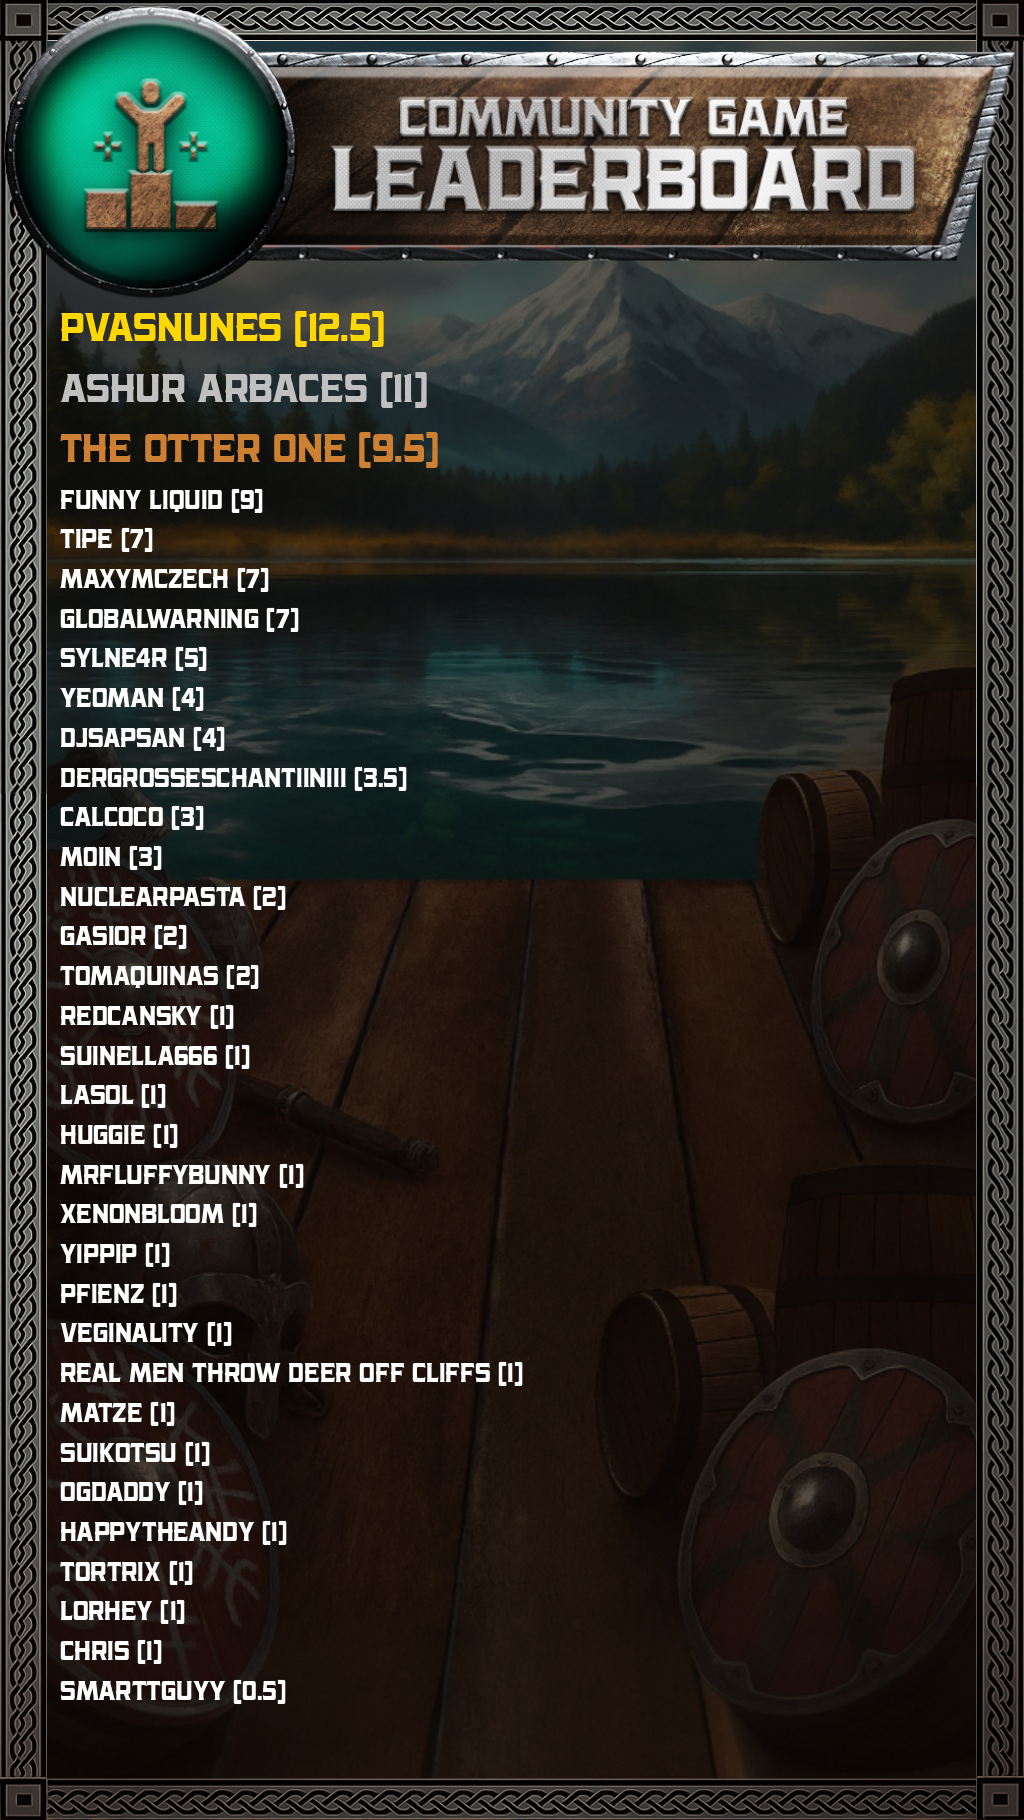
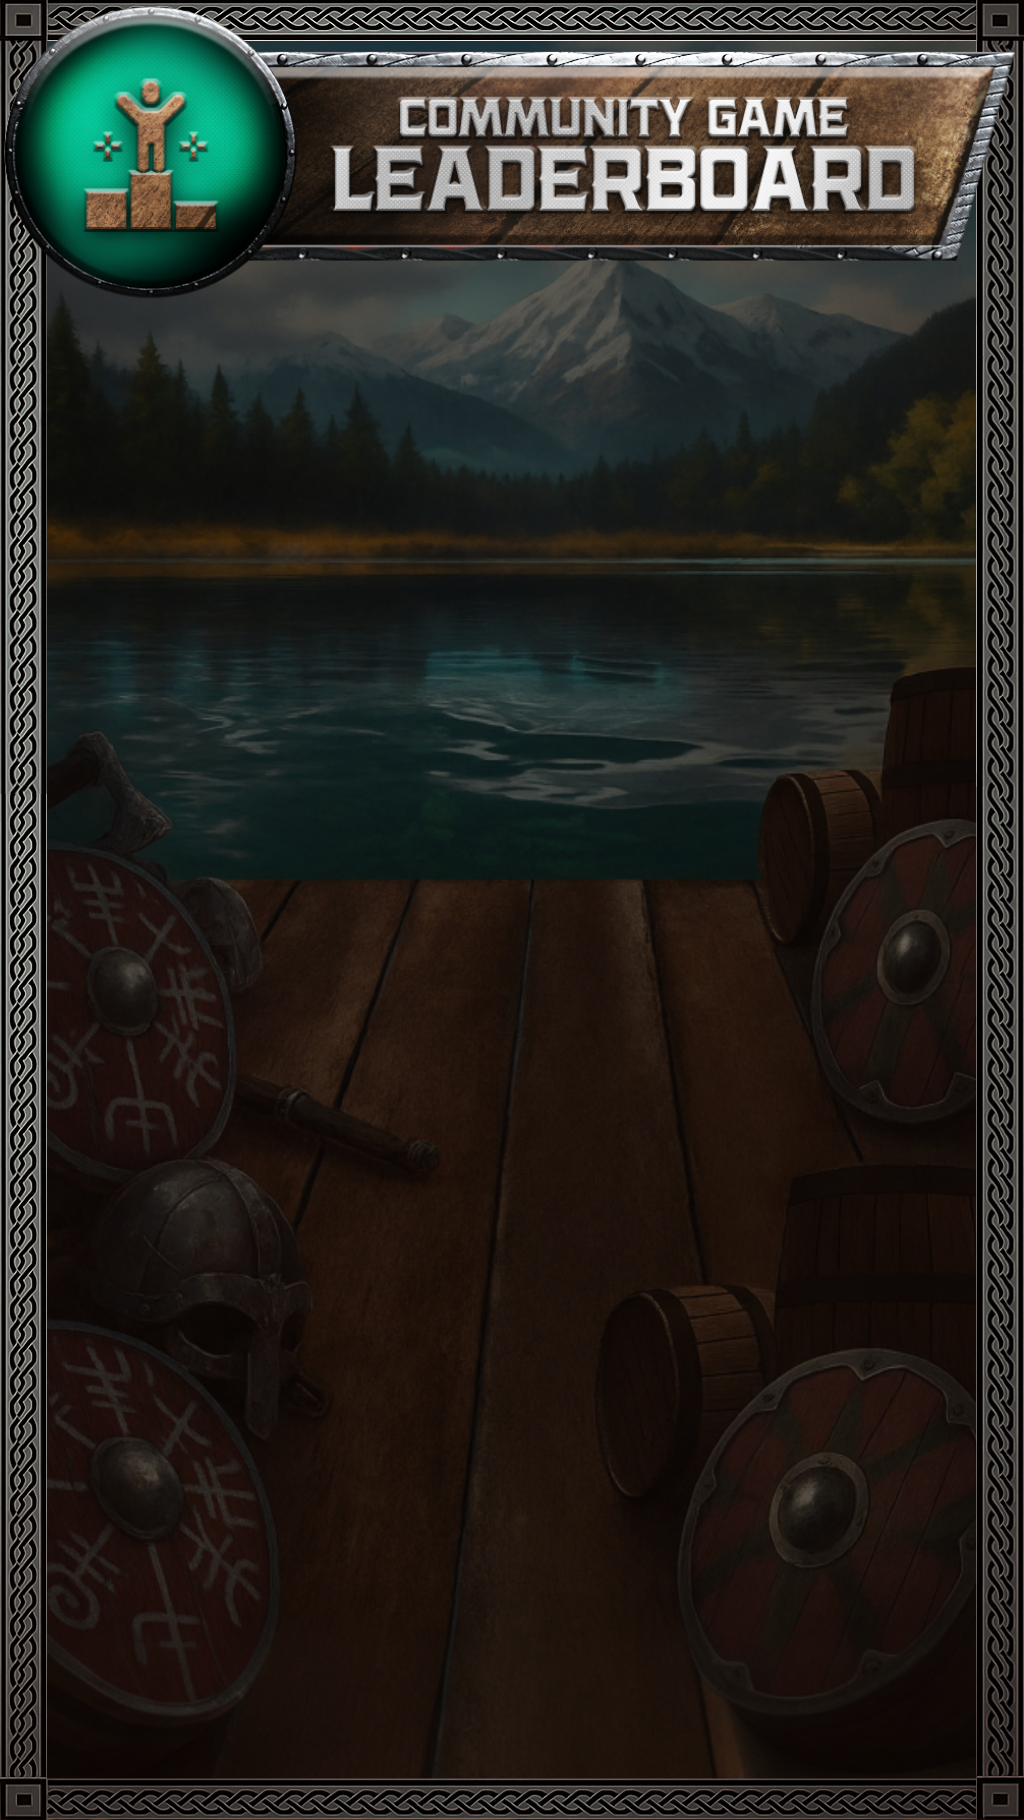
Deploying to gh-pages from @ ENS00/twitch_leaderboard@c5a53f65647bbb745135f4c007effcf747238ff3 🚀

Changed region(s): [[0.0625, 0.1538, 0.5, 0.9538], [0.25, 0.4615, 0.2812, 0.5231]]

diff --git a/generate_image.py b/generate_image.py
@@ -1,17 +1,24 @@
 # generate_image.py
 from PIL import Image, ImageDraw, ImageFont
+import sys
 
 with open("leaderboard.txt") as f:
     lines = [l.strip() for l in f if l.strip()]
 big_font_ratio = 1.525
-font_size = 900/len(lines)
-# long text may exceed image, so font has a max size
-if font_size > 55:
-    font_size = 55
 
 # Load template
 img = Image.open("template.png")
 draw = ImageDraw.Draw(img)
+
+try:
+    font_size = 900/len(lines)
+    # long text may exceed image, so font has a max size
+    if font_size > 55:
+        font_size = 55
+except: # empty file, nothing to write
+    img.save("leaderboard.png")
+    sys.exit(0)
+
 font = ImageFont.truetype("Bekstap-Regular.ttf", font_size*big_font_ratio)#56
 
 border = 60
@@ -46,3 +53,8 @@ for i, line in enumerate(lines):
 #img.thumbnail((320,scale_Y*320), Image.Resampling.LANCZOS)
 
 img.save("leaderboard.png")
+
+
+
+
+
